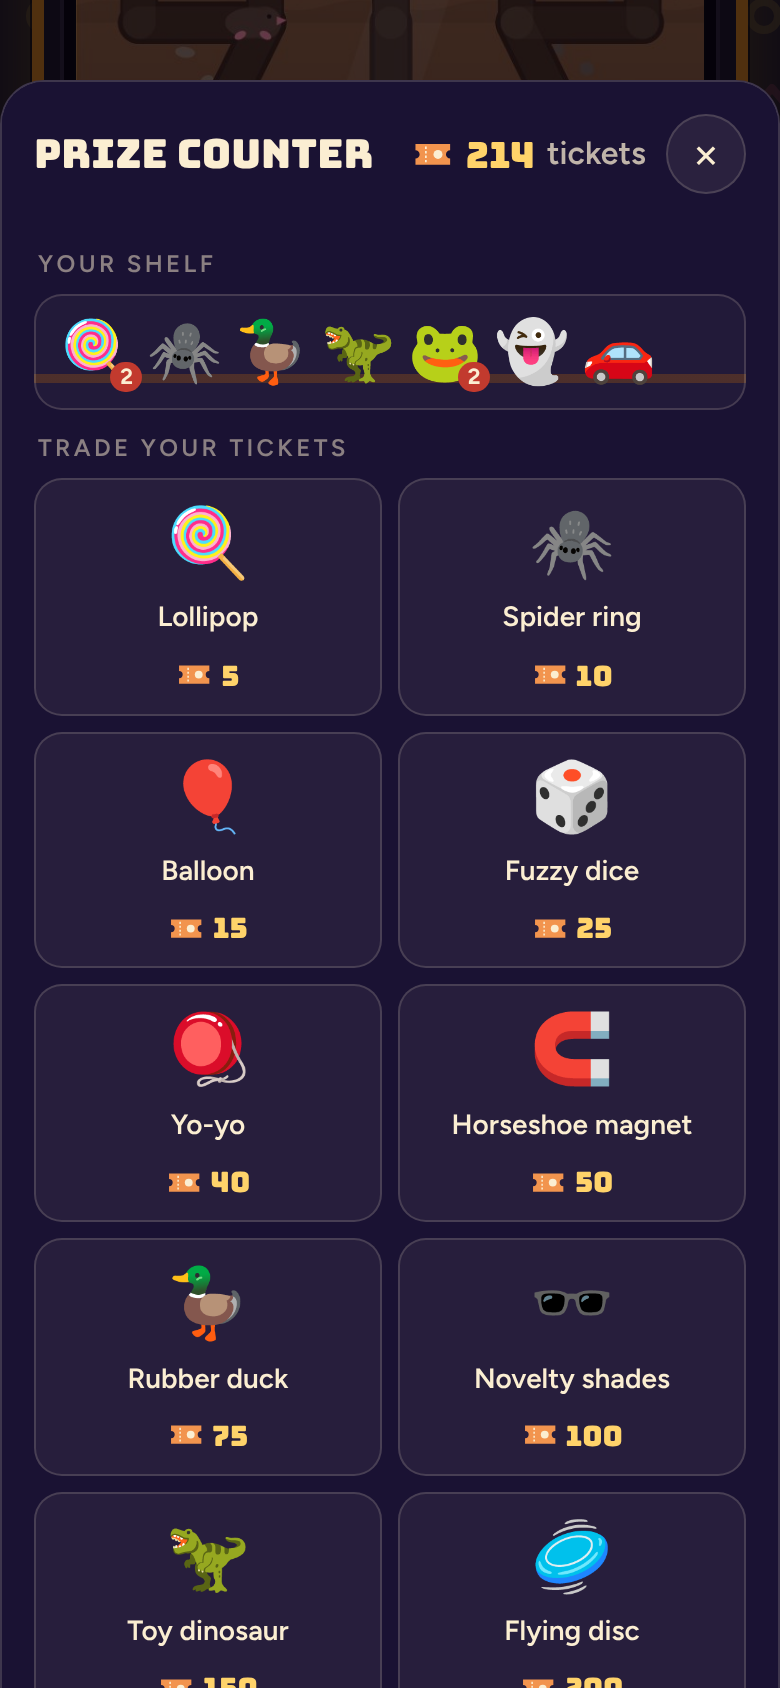
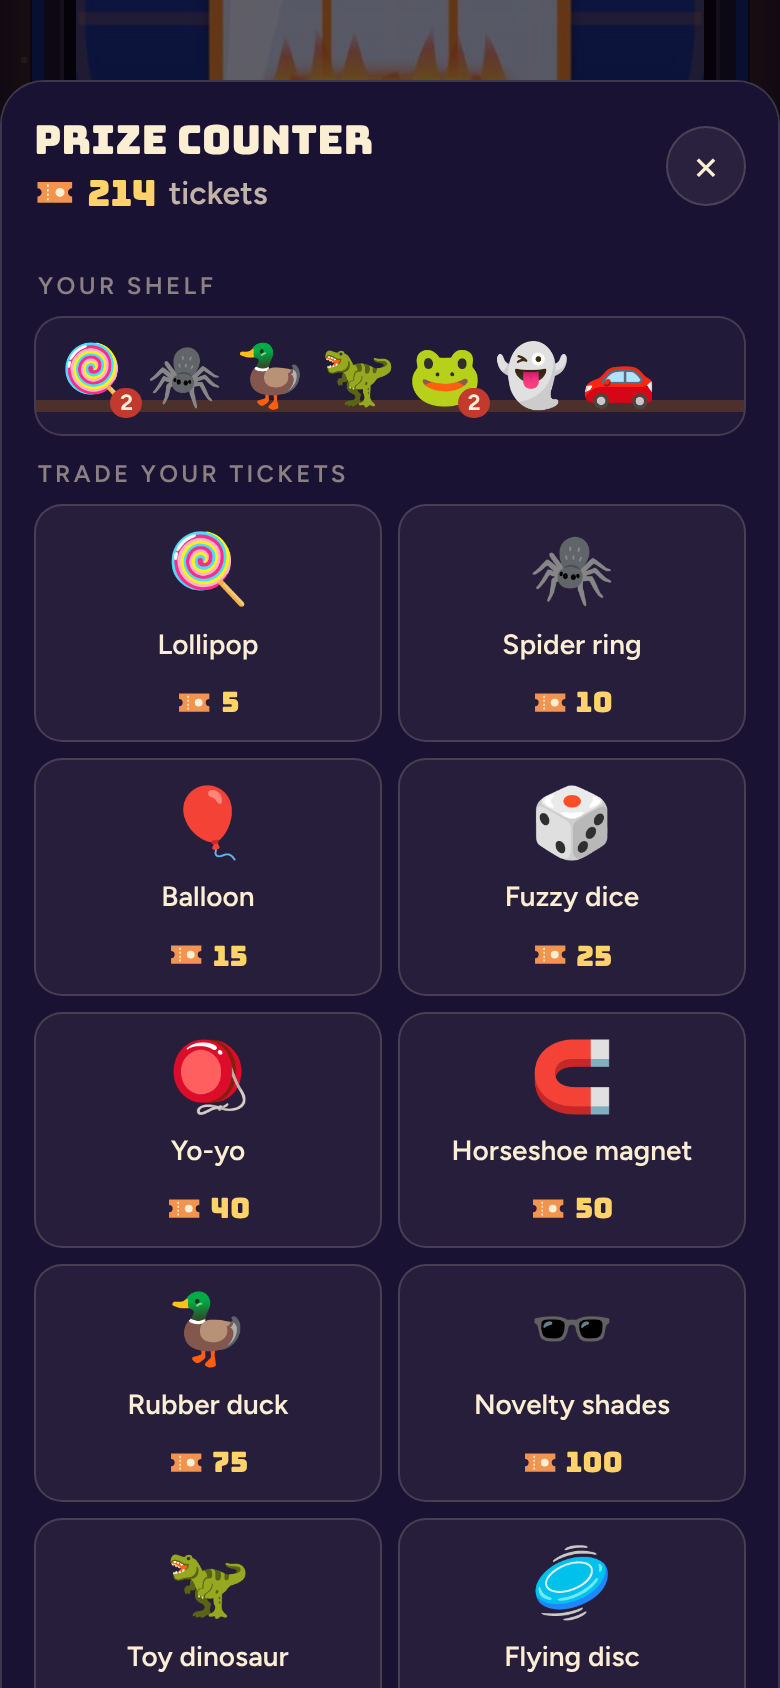
Redraw the floor's and the prize counter's pictures
The README's picture of the counter now shows its heading with the
balance under it, and a shelf standing on its plank; the floor's shows
its new opening line, a line longer, which leaves Roll Up's Play button
just out of the picture, so its description no longer mentions it.

Claude-Session: https://claude.ai/code/session_01RkvUFhzoaPZyofz3pSrJ5i

diff --git a/README.md b/README.md
@@ -5,7 +5,7 @@
 **An arcade on your phone.** Walk onto the floor and pick a machine: Roll Up, a skee-ball lane; Tilt, three pinball tables; Clutch, a claw machine full of plush; Topple, a coin pusher; Highrise, a stacker; Popgun, a shooting gallery; Bonkers, a whack-a-mole; or Hoops, a basketball machine. Every machine is set to free play. The games pay out tickets into the same pocket, for the same prize counter at the back, and the claw and the coin pusher pay out prizes, straight onto the same shelf. There's room on the floor for more machines.
 
 <p align="center">
-  <img src="docs/phone-floor.png" alt="The Free Play floor: FREE PLAY in pink and teal neon tubes over arcade carpet, 214 tickets in your pocket, and the Roll Up cabinet with its red and gold marquee, its screen showing the ring board, and a Play button" width="250">
+  <img src="docs/phone-floor.png" alt="The Free Play floor: FREE PLAY in pink and teal neon tubes over arcade carpet, 214 tickets in your pocket, and the Roll Up cabinet with its red and gold marquee and its screen showing the ring board" width="250">
   &nbsp;
   <img src="docs/phone-roll-up.png" alt="Roll Up pushed in on the board as a ball drops into the 50 cup: chrome rings on a blue board with lit numbers 20, 30, 40 and 50, 100 cups in both top corners, and +50 rising over the cup" width="250">
   &nbsp;
